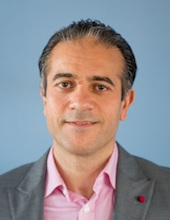
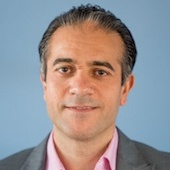
Fixed the carousel CSS to include right dimensions on pictures

diff --git a/css/index.css b/css/index.css
@@ -226,6 +226,7 @@ main {
 
 .slide-content{
     width: 33%;
+    padding: 10px;
 }
 
 .img-desc{
@@ -235,11 +236,10 @@ main {
 
 #teamPic img {
     max-width: auto;
-    height: 15vw;
     border-radius: 50%;
     margin: auto;
     margin-top: auto;
-    width: 240px;
+    height: 15vw;
     object-fit: cover;
 }
 
